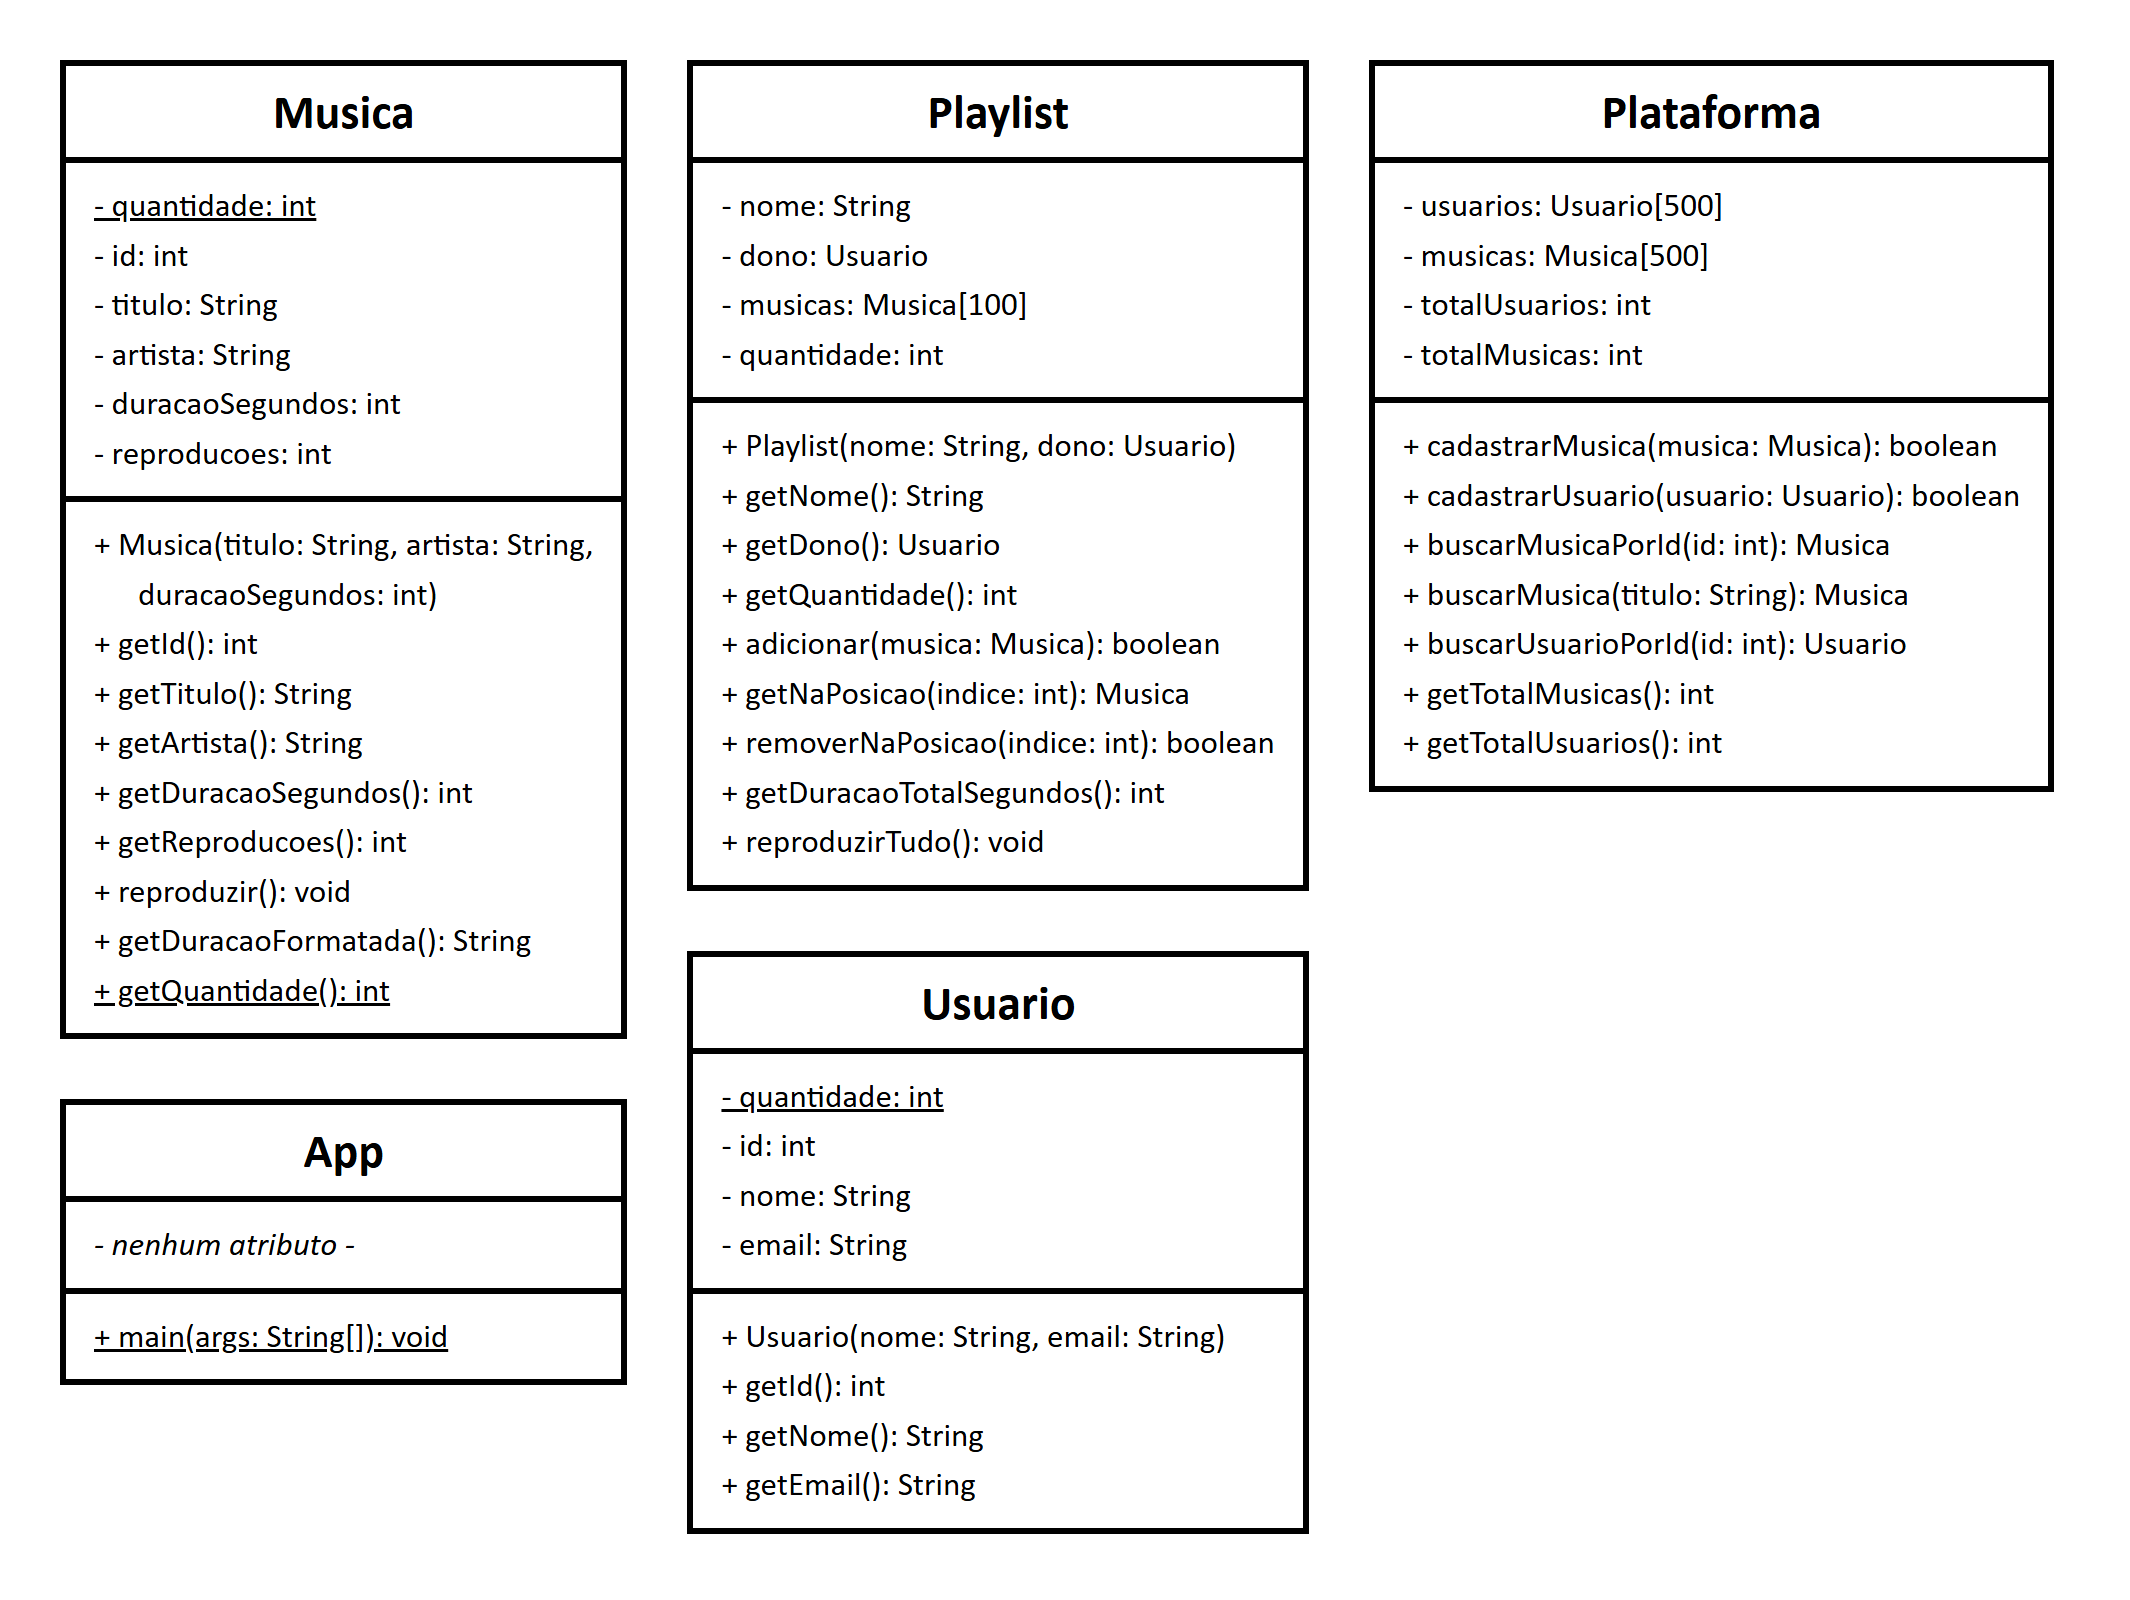
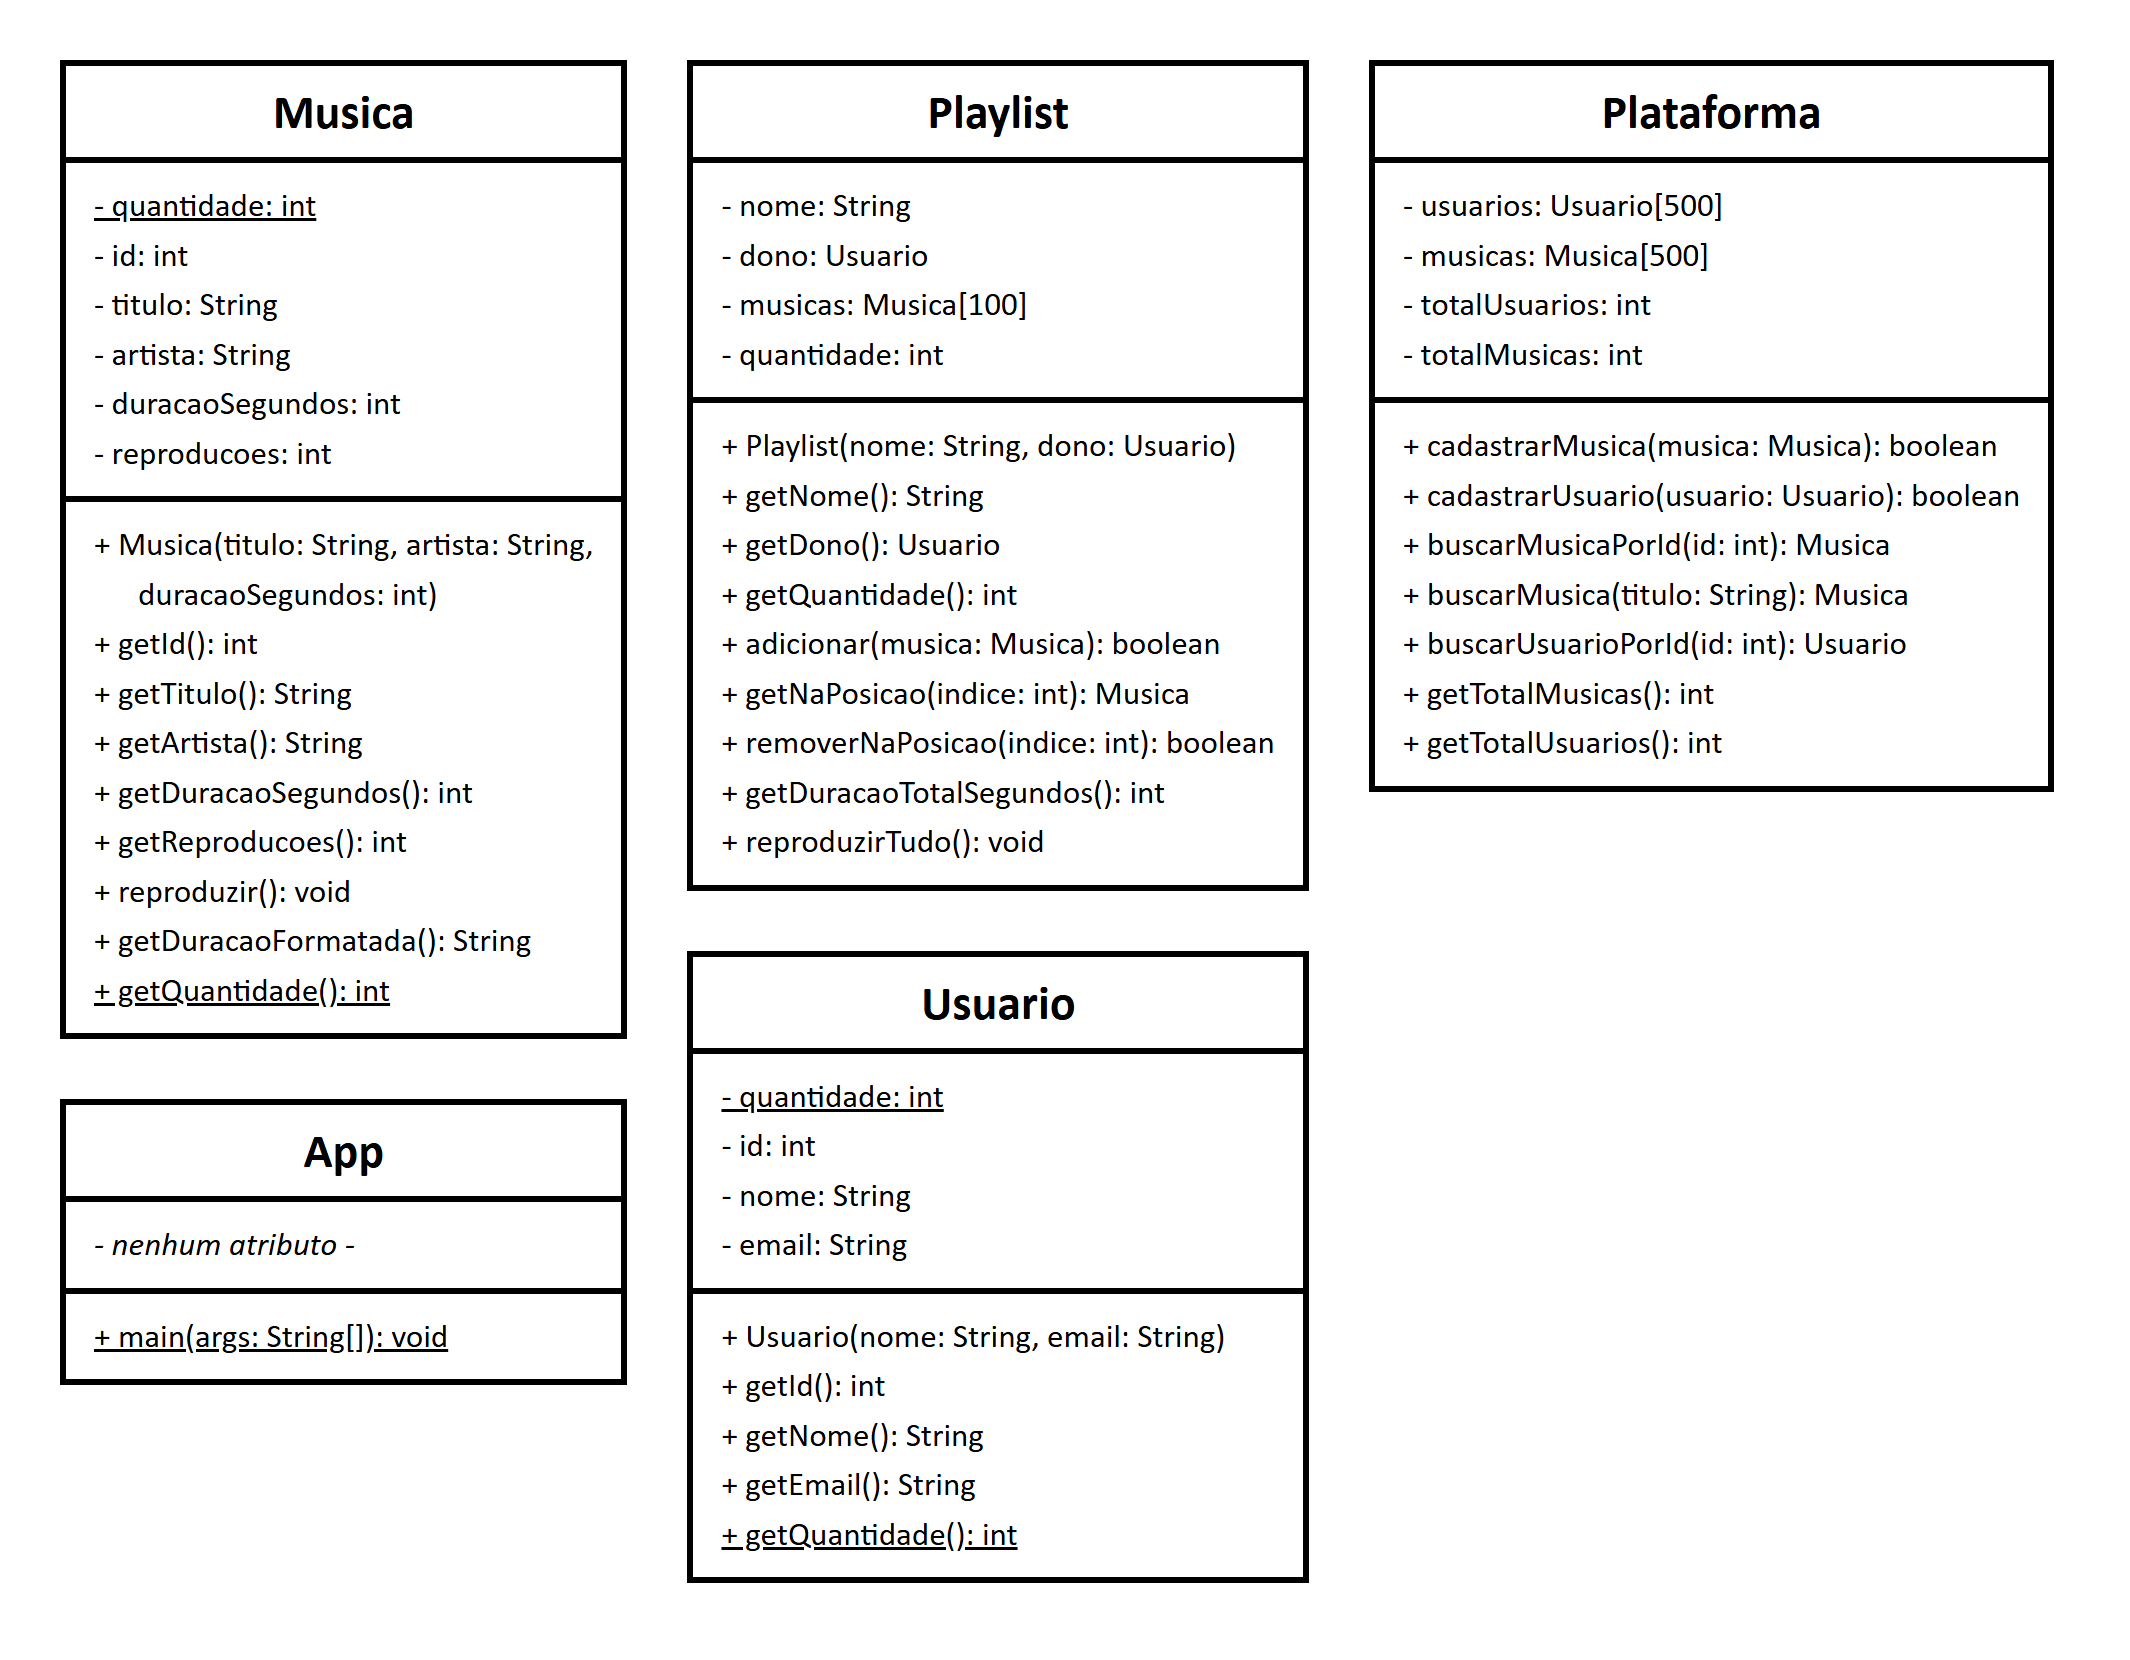
ajuste nome reproducoes

Changed region(s): [[0.3099, 0.0312, 0.6197, 0.9688], [0.031, 0.0312, 0.3099, 0.875], [0.6507, 0.0312, 0.9606, 0.5]]

diff --git a/Musica.java b/Musica.java
@@ -3,7 +3,7 @@ public class Musica {
     private String titulo;
     private String artista;
     private int duracaoSegundos;
-    private int reproducao = 0;
+    private int reproducoes = 0;
 
     private static int quantidade = 0;
 
@@ -39,12 +39,12 @@ public class Musica {
     }
 
     public int getReproducoes(){
-        return reproducao;
+        return reproducoes;
     }
 
     public void reproduzir(){
         System.out.println("Tocando: "+ getTitulo());
-        reproducao++;
+        reproducoes++;
     }
 
     public String getDuracaoFormatada(){
